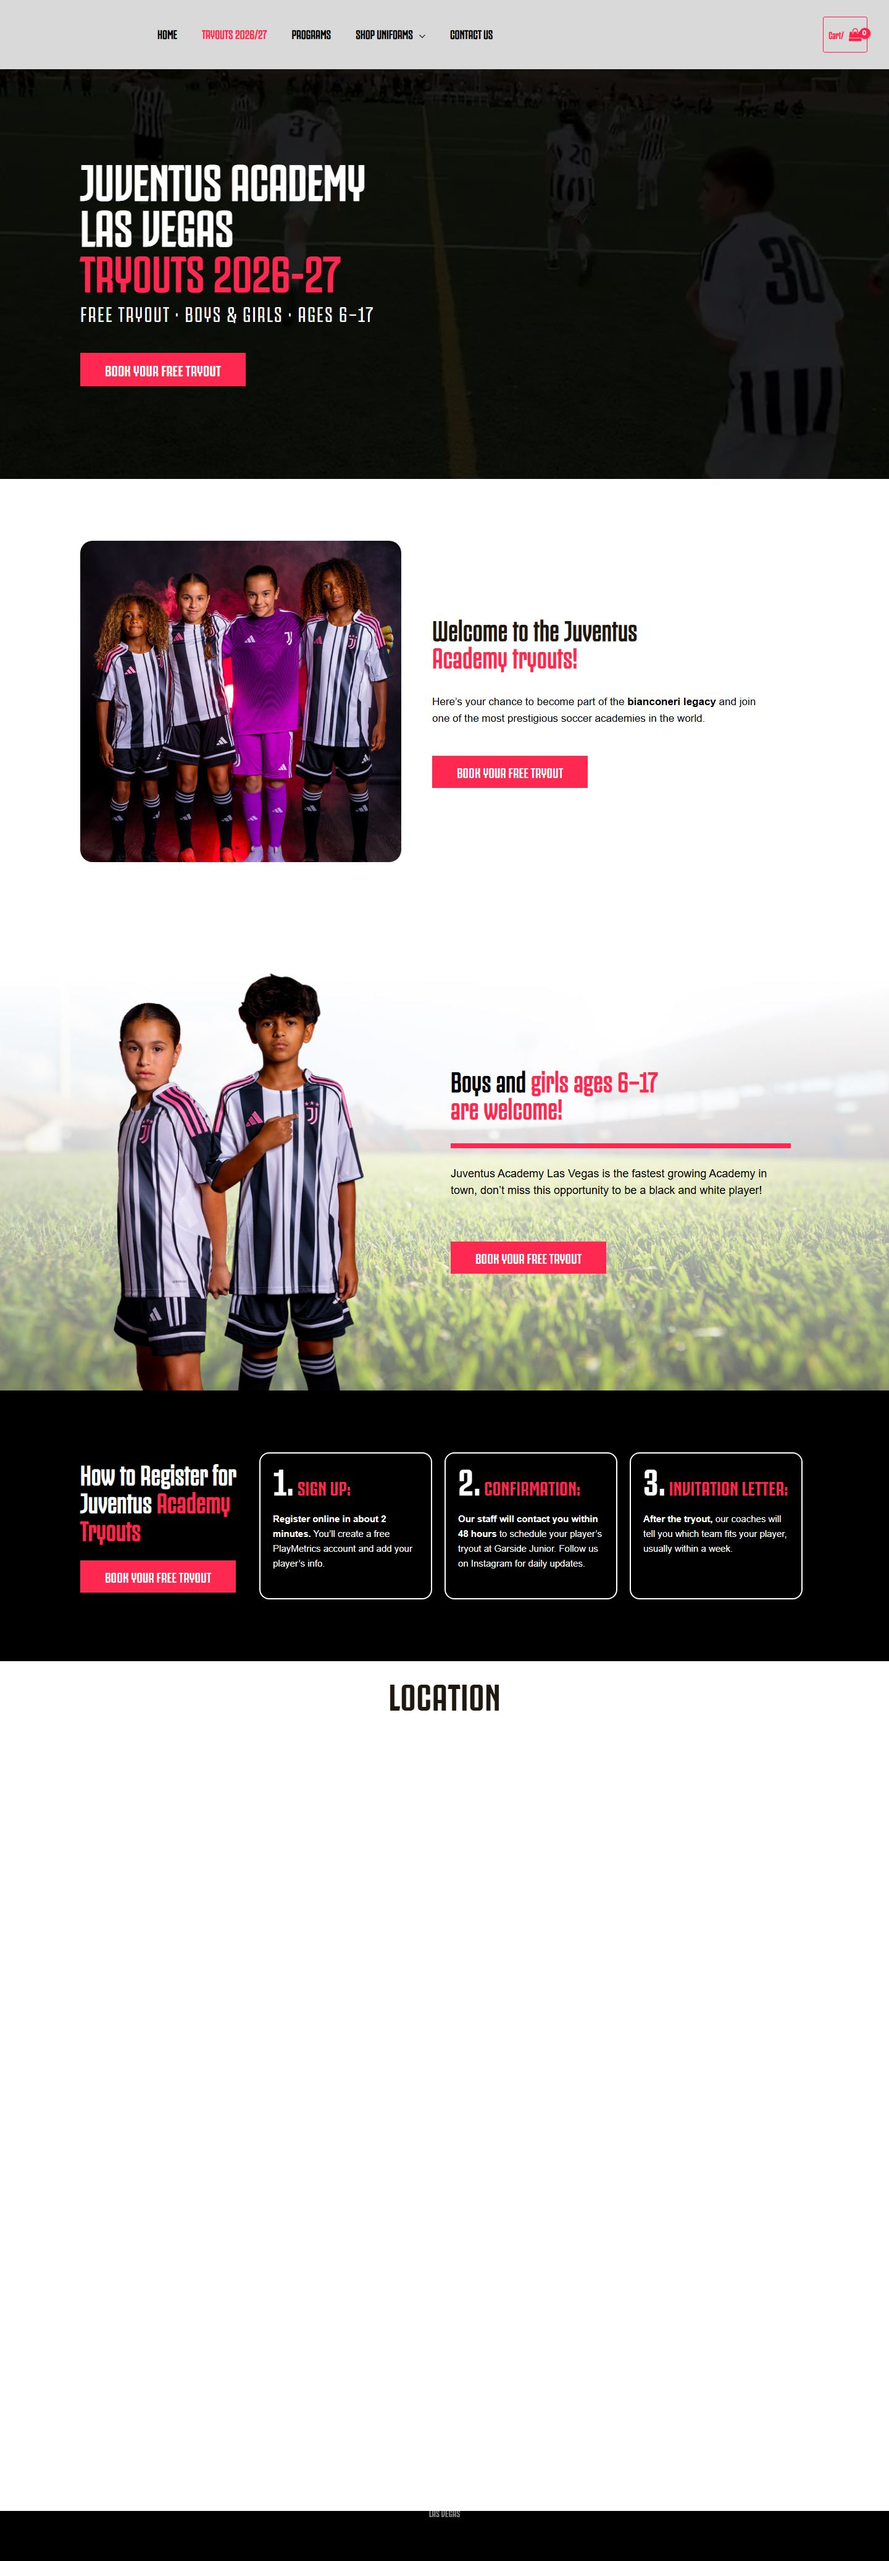
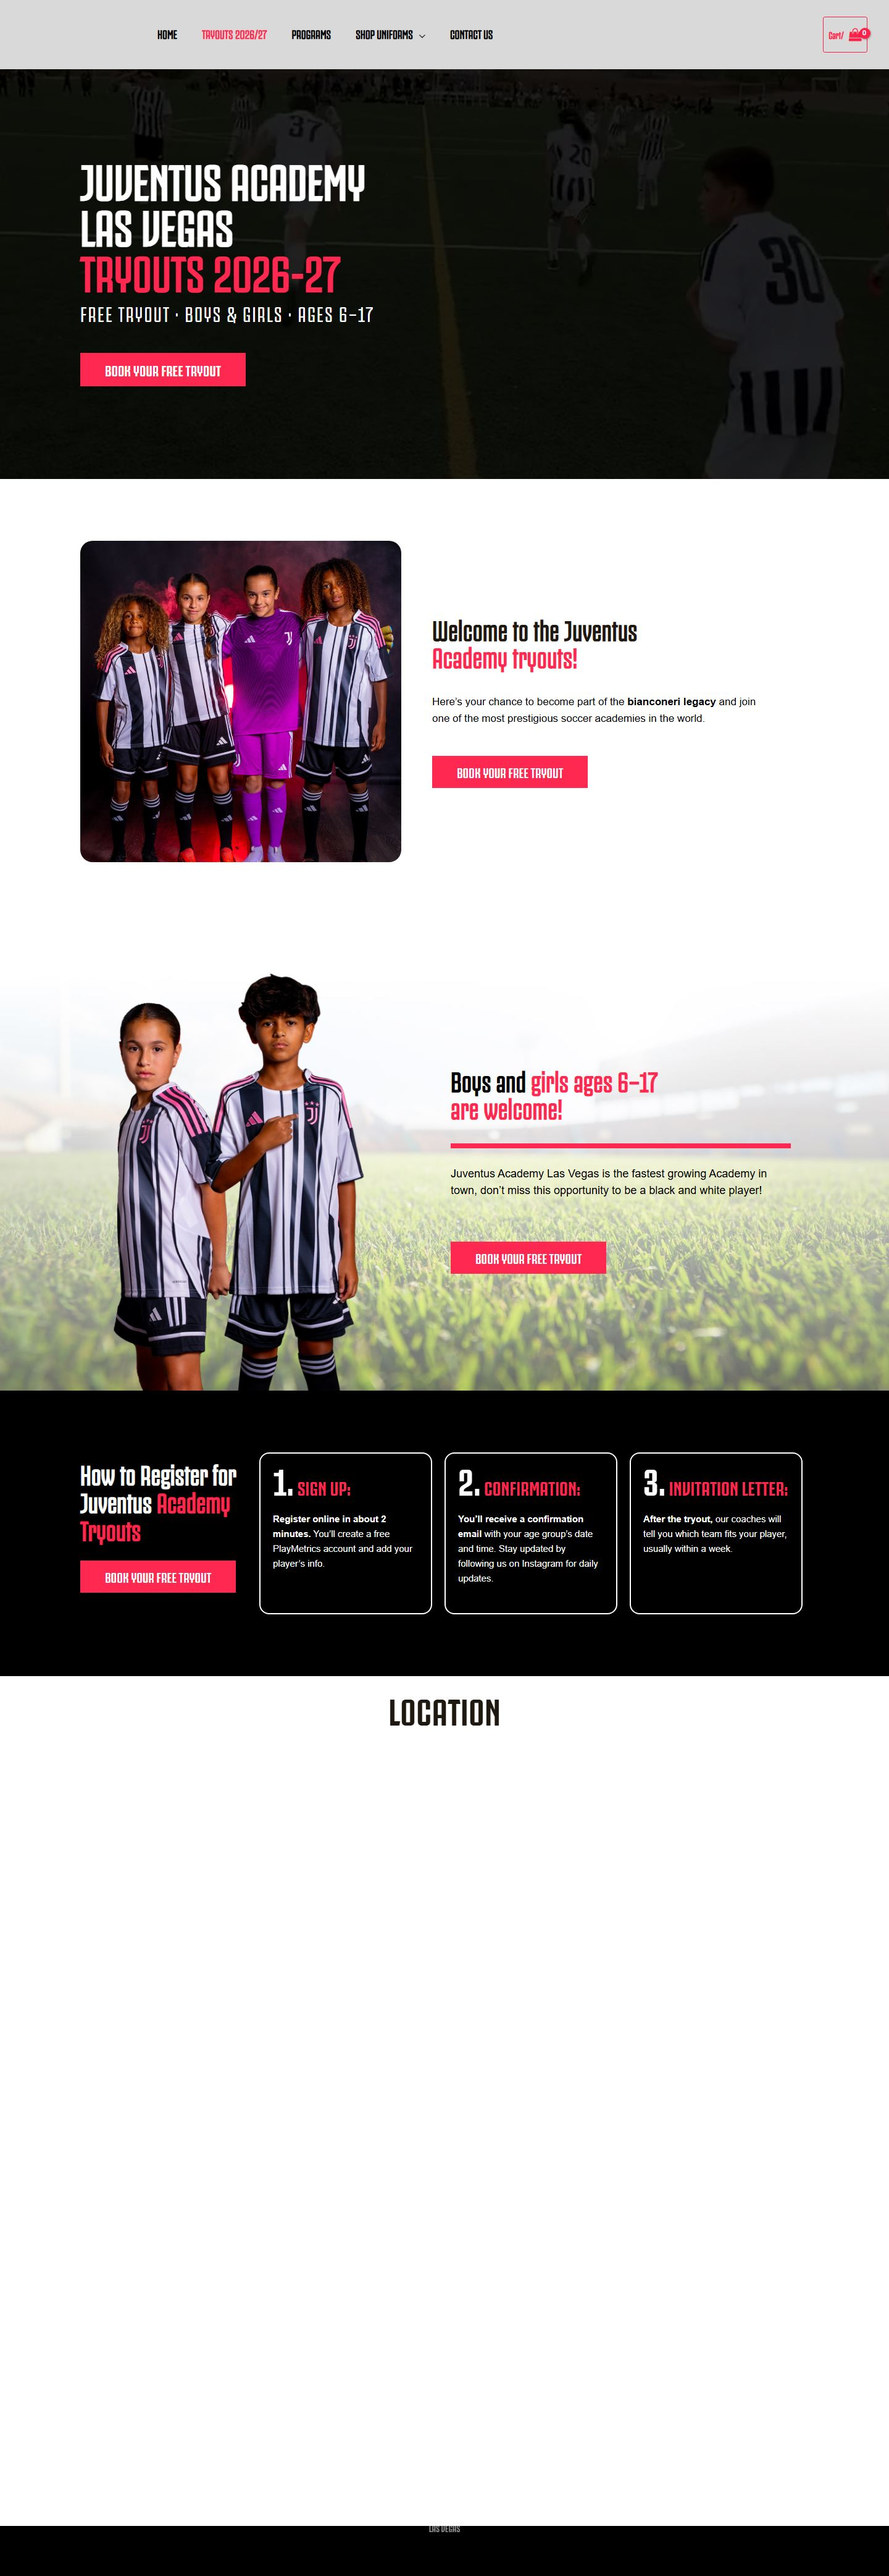
Paso 2 se deja como está (sin plazo)

diff --git a/index.html b/index.html
@@ -146,7 +146,7 @@ footer{margin-top:56px;color:var(--muted);font-size:14px;border-top:1px solid va
       <tr><td>Los 4 botones</td><td class="antes">REGISTER NOW</td><td class="despues">BOOK YOUR FREE TRYOUT</td><td>Mismo llamado que el anuncio, y deja claro que es el tryout y no la inscripción a la temporada.</td></tr>
       <tr><td>Titular "Boys and girls"</td><td class="antes">Boys and girls are welcome!</td><td class="despues">Boys and girls ages 6–17 are welcome!</td><td>Repite el rango en el bloque donde se habla de quién puede venir.</td></tr>
       <tr><td>Paso 1</td><td class="antes">Register for tryouts at your preferred location by creating a Play Metrics account.</td><td class="despues">Register online in about 2 minutes. You’ll create a free PlayMetrics account and add your player’s info.</td><td>Dice cuánto tarda y que la cuenta es gratis; corrige "Play Metrics". Ya no hay "location" que elegir (queda solo Garside).</td></tr>
-      <tr><td>Paso 2</td><td class="antes">You’ll receive a confirmation email with your age group’s date and time…</td><td class="despues">Our staff will contact you within 48 hours to schedule your player’s tryout at Garside Junior. Follow us on Instagram for daily updates.</td><td>Promete lo que pasa en la práctica: el staff agenda el tryout. Dar un plazo baja la ansiedad del padre.<br><span class="tag">Pendiente por aprobar el plazo</span></td></tr>
+      <tr><td>Paso 2</td><td colspan="2" style="color:var(--ink2)">You’ll receive a confirmation email with your age group’s date and time. Stay updated by following us on Instagram for daily updates.</td><td>Se deja como está: no hay un plazo fijo para contactar a las familias, así que no se promete uno.</td></tr>
       <tr><td>Paso 3</td><td class="antes">After the tryout, please allow a few days to a week to receive your invitation letter.</td><td class="despues">After the tryout, our coaches will tell you which team fits your player, usually within a week.</td><td>Mismo plazo, en tono más cercano: habla del equipo del jugador, no de una "carta".</td></tr>
     </tbody>
   </table>
@@ -198,8 +198,6 @@ footer{margin-top:56px;color:var(--muted);font-size:14px;border-top:1px solid va
   <h2>Pendiente por aprobar</h2>
   <div class="pend">
     <div><b>Textos.</b> Aprobar la tabla de arriba tal cual o con ajustes.</div>
-    <div><b>Plazo del paso 2.</b> Debe ser uno que el staff pueda cumplir siempre.
-      <div class="opciones"><span>within 48 hours</span><span>within 2 business days</span><span>within a few days</span></div></div>
     <div><b>Portada y fotos.</b> Aprobar el video real de fondo (confirmar cancha y uniforme) y la foto de la sede.</div>
   </div>
   <p class="nota-sec">Con la aprobación, los cambios se aplican en Elementor en unos 15 minutos. Ya hay un respaldo completo de la página (10-10) para volver atrás si hace falta.</p>
@@ -214,7 +212,7 @@ footer{margin-top:56px;color:var(--muted);font-size:14px;border-top:1px solid va
   var notas = {
     hero: 'Portada: título en una sola línea, edades y "gratis" a la vista antes del botón, y de fondo un video real de la academia en cámara lenta (aquí se ve un cuadro; en la demo se ve en movimiento).',
     bienvenida: 'Bienvenida: mismos textos y fotos; cambian los botones y el titular "Boys and girls" ahora dice el rango de edades.',
-    pasos: 'Cómo inscribirse: los tres pasos dicen cuánto tarda, quién llama y cuándo se sabe el resultado.',
+    pasos: 'Cómo inscribirse: el paso 1 dice cuánto tarda y el paso 3 cuándo se sabe el resultado; el paso 2 se deja igual.',
     sede: 'Sede: foto real de una cancha de Las Vegas en vez de la foto con palmeras.',
     completa: 'Página completa: desliza dentro del recuadro para ver toda la landing.'
   };

diff --git a/demo/index.html b/demo/index.html
@@ -703,7 +703,7 @@ Las Vegas<br>
 				</div>
 				<div class="elementor-element elementor-element-5fcee20 elementor-widget elementor-widget-text-editor" data-id="5fcee20" data-element_type="widget" data-widget_type="text-editor.default">
 				<div class="elementor-widget-container">
-									<p><strong>Our staff will contact you within 48 hours</strong> to schedule your player’s tryout at Garside Junior. Follow us on Instagram for daily updates.</p>								</div>
+									<p><strong>You’ll receive a confirmation email</strong> with your age group’s date and time. Stay updated by following us on Instagram for daily updates.</p>								</div>
 				</div>
 					</div>
 		</div>
